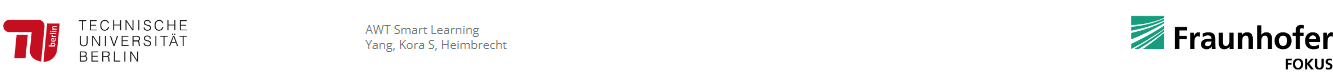
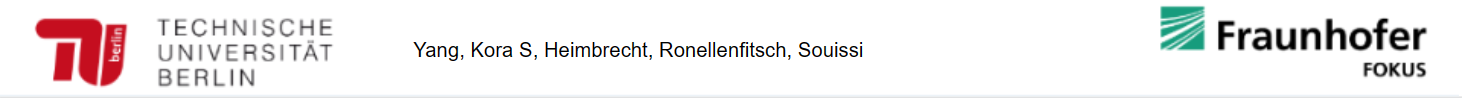
update header. remove 100 limit

diff --git a/website/css/style.css b/website/css/style.css
@@ -25,7 +25,7 @@ input[type=text]:focus {
 }
 
 .courseList{
-	margin-top: 100px;
+	margin-top: 50px;
 	}
 
 .scrollable { 

diff --git a/website/index.php b/website/index.php
@@ -154,7 +154,7 @@
 				<div class="row" id="location">
 					<label for="location-select">Location</label><br>
 					<select id="location-select">
-						<!-- <option value="none">none</option> -->
+						<option value="none">No Preference</option>
 						<?php
 						$json = file_get_contents('http://course-api-service/locations');
 						$obj = json_decode($json);

diff --git a/course-api/api.py b/course-api/api.py
@@ -104,7 +104,7 @@ class CourseList(Resource):
             ))
         db = get_db()
         result = db.execute_read(get_courses)
-        return [serialize_course(record['course']) for record in result[:100]]
+        return [serialize_course(record['course']) for record in result]
 
 
 
